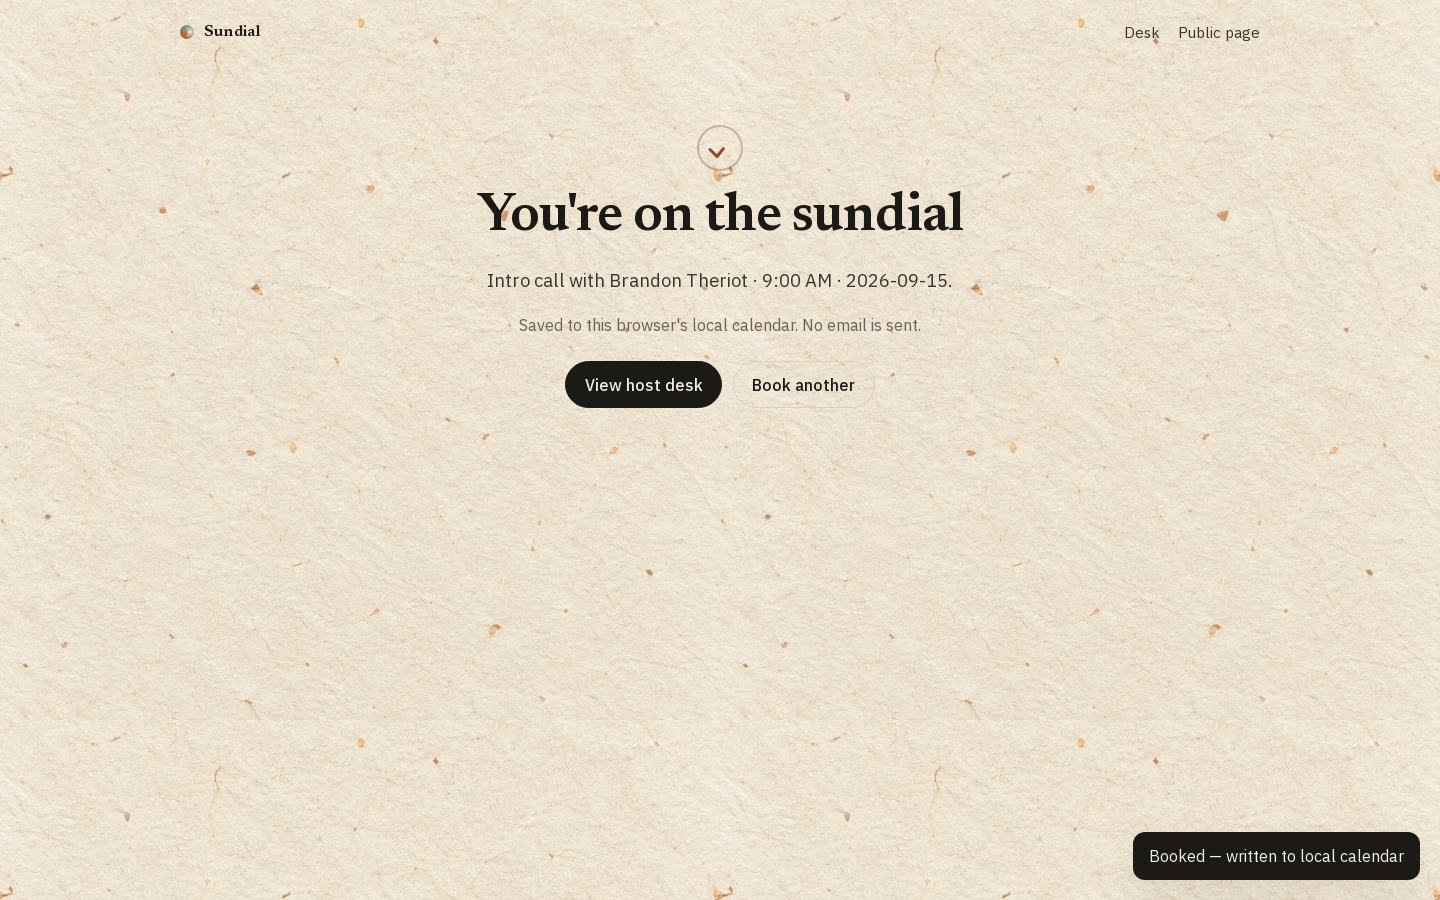
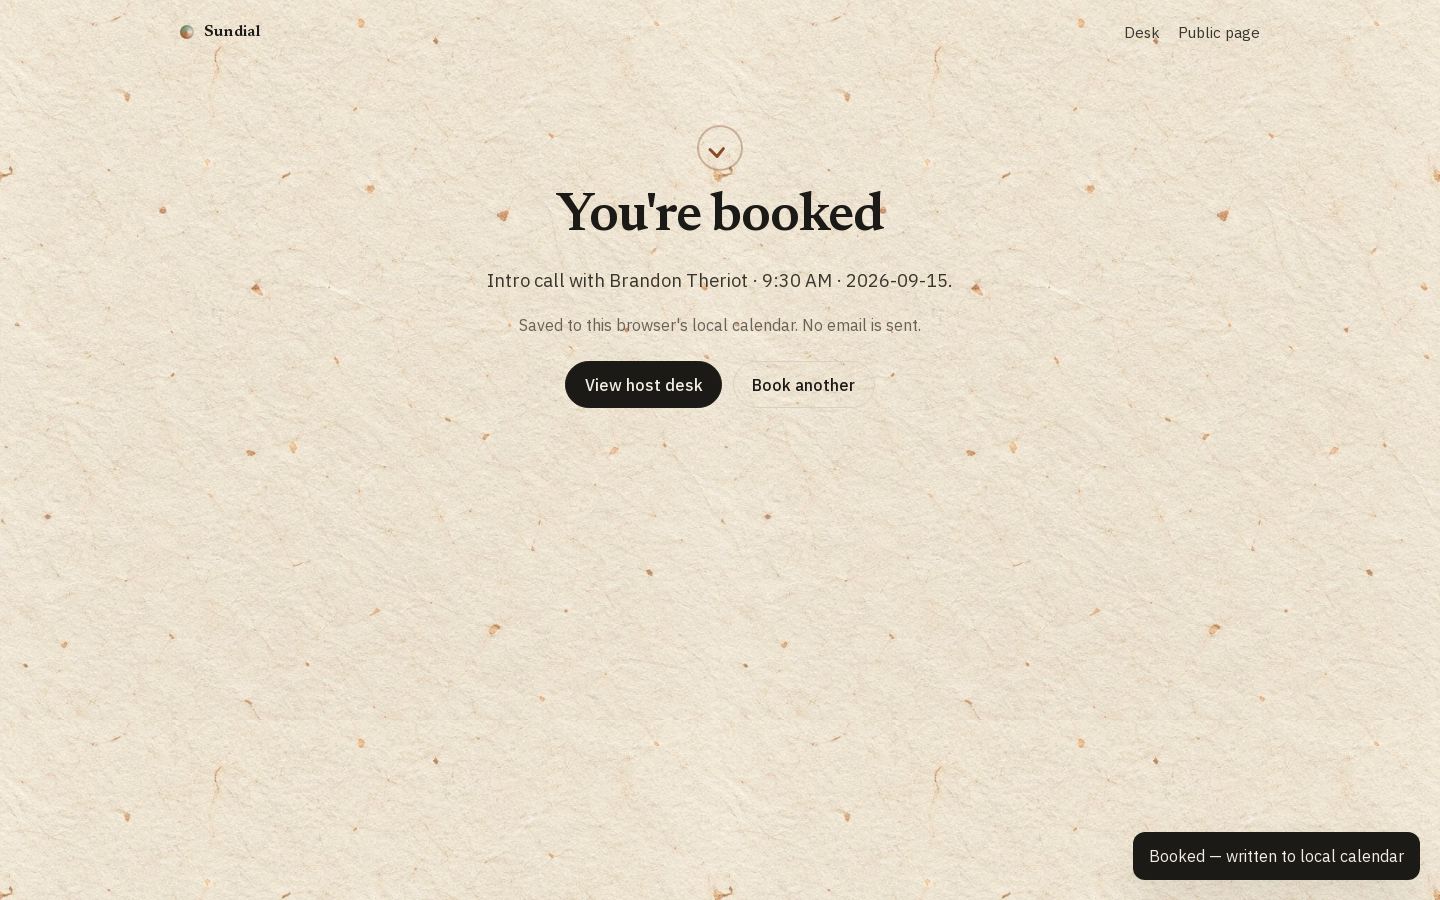
Define: log R5 critic shots

Changed region(s): [[0.3125, 0.2178, 0.6875, 0.28]]

diff --git a/docs/DEFINE.md b/docs/DEFINE.md
@@ -21,8 +21,9 @@ Critic sees **screenshots only** (no code, no builder rationale). Studio bar: a 
 - Critic re-score logged in workbench after live smoke
 
 ### Round C — polish / motion / copy
-- Shots: `gauntlet/shots/r2-booking.png`, `gauntlet/shots/r2-confirm.png`
-- Gaps chased: slot density, confirm clarity, anti-slop leftovers
+- Shots: `gauntlet/shots/r5-booking.png`, `gauntlet/shots/r5-home.png`, `gauntlet/shots/r5-after-confirm.png`
+- Gaps chased: auto day, AM/PM groups, confirm gate, today vs active, success copy
+- Fresh critic after R5: ~7.1/10 vs studio bar for Courtyard Meridian; zcal still wins blind on SaaS depth/OAuth
 
 Builder never self-grades. Scores live in workbench + status JSON.
 
